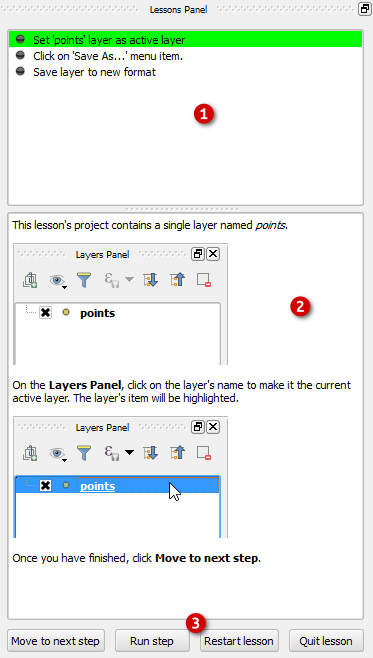
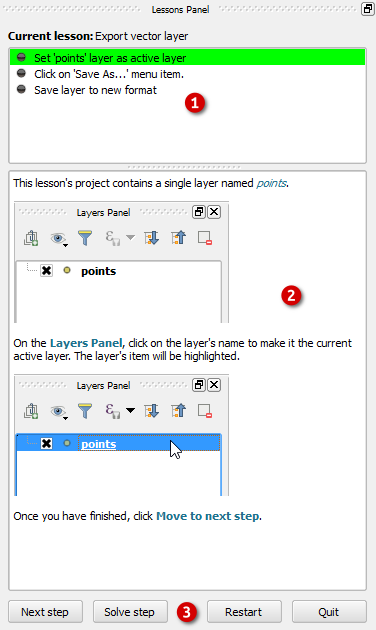
Updates usage documentation

Changed region(s): [[0.0, 0.0, 0.9732, 0.9952], [0.9732, 0.0, 1.0, 0.0302]]

diff --git a/docs/source/usage.rst b/docs/source/usage.rst
@@ -3,53 +3,150 @@
 Usage
 =====
 
-Start lessons
--------------
+The Lessons Library
+-------------------
 
-#. To open a lesson, go to :menuselection:`Plugins --> Lessons --> Start Lesson`. The :guilabel:`Lesson selector` will show up.
+To open the :guilabel:`Lessons Library`, go to :menuselection:`Plugins -->
+Lessons --> Open Lessons Library...`.
 
-   .. figure:: img/lesson_selector.png
+.. figure:: img/lessons_library.png
 
-#. The lessons are organized in groups. If necessary, click the cross next to the group's name to expand its lessons list.
+The left-hand panel (1) lists all available lessons organized by thematic
+groups. If necessary, click the cross icon next to the group's name to show
+the lessons inside.
 
-#. Click one of the lessons. On the right side of the dialog, a description of the lesson will show its purpose and objectives, the estimated time for completions and the lesson's author.
+Upon selecting a lesson (by clicking its name in the list) the right-hand
+panel (2) shows a small description of the lesson's content, estimated
+time of completion, and author.
 
-   .. figure:: img/lesson_selected.png
+In the dialog's bottom-right corner there is a set of buttons (3):
 
-#. Click :guilabel:`OK` to start the selected lesson.
+* **Add lessons...** - To install lessons from ZIP package;
+* **Uninstall lesson/group** - Deletes the selected lesson or group of lessons;
+* **Run lesson** - Starts the selected lesson;
+* **Close** - Closes the :guilabel:`Lessons Library` dialog.
+
+Install new lessons
+-------------------
+
+There are three ways of adding new lessons to the :guilabel:`Lesson Library`:
+
+* Using the Boundless Connect plugin;
+* From a zip package;
+* Through other plugins.
+
+
+Using Boundless Connect plugin
+..............................
+
+You can use the search feature of the `Boundless Connect panel <https://connect.boundlessgeo.com/docs/desktop/plugins/connect/usage.html#searching-plugins-and-other-resources>`_ to find, download and
+install lessons groups.
+
+Filter the search results by choosing ``Lessons`` in the :guilabel:`Search
+for` Drop-down menu.
+
+Type the name or subject of the lessons group you are seeking for (e.g.,
+``general``) and click :guilabel:`Search`. The list of matching lessons
+groups shows up. Click one of the listed items to install it in the
+:guilabel:`Lessons Library`.
+
+.. figure:: img/install_from_connect.png
+
+Once the download and installation finishes, a message in the top of
+the map canvas informs that **"lessons were correctly installed"**.
+
+From ZIP package
+................
+
+In the :guilabel:`Lessons Library` (:menuselection:`Plugins -->
+Lessons --> Open Lessons Library`), click the :guilabel:`Add lessons...`
+button. Browse to and select the ZIP package and click :guilabel:`Open`.
+After it, the lessons in the ZIP package will become available in the
+:guilabel:`Lessons Library`.
+
+.. figure:: img/install_from_zip.png
+
+Through other plugins
+.....................
+
+Some plugins can automatically install new lessons. For example, upon
+installation of `Boundless's Geogig plugin<http://boundlessgeo.github.io/qgis-plugins-documentation/geogiglight/index.html>`_
+, a new group of lessons will become available in lessons library.
+
+.. figure:: img/geogig_lessons.png
+
+Uninstall lessons
+-----------------
+
+To uninstall a lesson, open the :guilabel:`Lessons
+Library` (:menuselection:`Plugins --> Lessons --> Open Lessons Library`),
+select a lesson from the list and click :guilabel:`Uninstall lesson`.
+
+.. figure:: img/uninstall_lesson.png
+
+A message requests you to confirm the uninstall action. Click :guilabel:`Yes`.
+
+.. figure:: img/uninstall_confirmation.png
+
+You can also uninstall a group of lessons by selecting the group's name in
+the lessons list panel and click :guilabel:`Uninstall lessons group`.
+
+.. warning::
+
+   Upon uninstall, the lesson or lessons group will be completely removed from
+   your disk. Make sure you have a way to reinstall them if you need to.
 
 Lessons Panel
 -------------
 
-When a lesson starts, the :guilabel:`Lessons Panel` will be on the right side of the QGIS's window. The :guilabel:`Lessons Panel` includes: a Lesson's steps index (1) to track the lesson's progress, a description window (2) to show the current step's instructions, and a button bar (3).
+By default, when a lesson starts, the :guilabel:`Lessons Panel` will be on the
+right side of the QGIS's window. The :guilabel:`Lessons Panel` includes a
+Lesson's steps index (1) to track the lesson's progress, a description
+window (2) to show the current step's instructions, and a button bar (3).
 
 .. figure:: img/lesson_panel.png
 
 The following buttons compose the button bar:
 
-* **Move to next step** - To go to the next lesson's step.
-* **Run step** - Helps performing the steps instructions (not always available).
-* **Restart lesson** - Resets the project and cleans all the lesson's progress made so far.
-* **Quit lesson** - Cleans the lesson's progress and closes the :guilabel:`Lessons Panel`, but keeps the project loaded.
+* **Next step** - To go to the next lesson's step.
+* **Solve step** - Helps to perform the steps instructions (not always
+  available).
+* **Restart** - Resets the project and cleans all the lesson's progress made
+  so far.
+* **Quit** - Cleans the lesson's progress and closes the :guilabel:`Lessons
+  Panel`, but keeps the project loaded.
 
 Following a lesson
 ------------------
 
-Generally, the lessons will open a prepared project with all the necessary data already prepared. Unless the lesson is about loading data, you should never need to add data yourself.
+At the start, the lessons open a prepared project with all the necessary data.
+Unless the lesson is about loading data, you should never need to add data
+yourself.
 
-For each lesson's step, follow the instructions in the description window. When you have finished executing those instructions, click :guilabel:`Move to next step`.
+For each of the lesson's steps, follow the instructions in the description
+window. When you have finished executing those instructions, click
+:guilabel:`Next step`.
 
-Some lessons' steps won't let you move to the next step if you haven't finished the current step's instructions correctly. In those cases a message will pop up, asking you to review and execute the instructions.
+Some steps will not let you move to the next one until you finished the
+current step's instructions correctly. In those cases a message pops up,
+asking you to review and execute the instructions.
 
 .. figure:: img/warning_message.png
 
-Some steps will move to the next step automatically as soon as you complete the instructions. The step’s description will inform you of that. Typically, this is used in steps that ask you to click a menu item.
+Some steps will move to the next step automatically as soon as you complete the
+instructions. The step’s description will inform you of that. Typically, this
+is used in steps that ask you to click a menu item, or will open a
+blocking dialog.
 
 .. figure:: img/click_menu.png
 
-In some lessons' steps, if you get stuck while following the instructions, you can click :guilabel:`Run step`. This functionality will help you perform the step instructions, either by executing it for you or by showing how to do it.
+In some lessons' steps, if you get stuck while following the instructions,
+you can click :guilabel:`Solve step`. This functionality will help you perform
+the step's instructions, either by executing it for you or by showing how to
+do it.
 
-When you have finished all steps of the lesson, a dialog will show up congratulating you for the achievement. In that dialog, you can either start the following suggested lesson or close the dialog and the lessons panel.
+When you have finished all steps of a lesson, a dialog shows up congratulating
+you for the achievement. In that same dialog, you can either start one of the
+suggested lesson or close the dialog and the :guilabel:`Lessons panel`.
 
 .. figure:: img/congratulations_message.png
-
